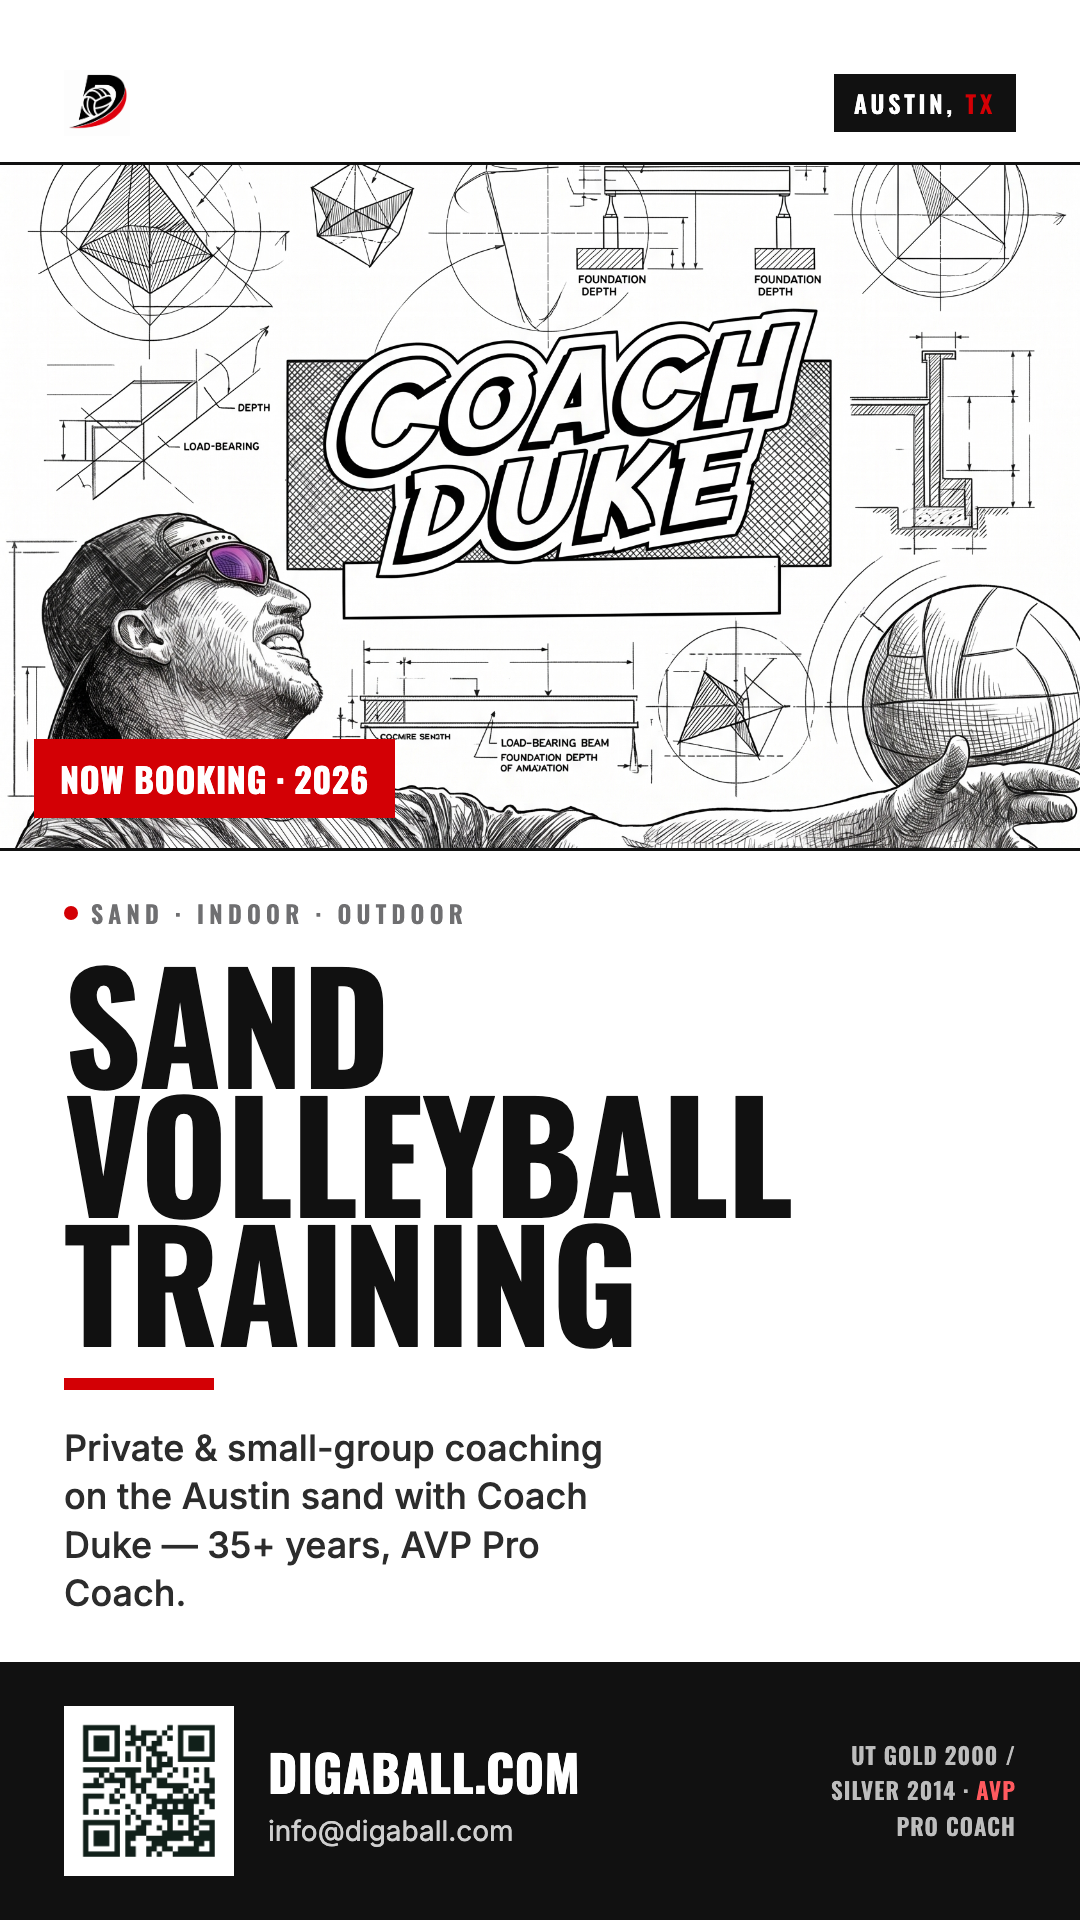
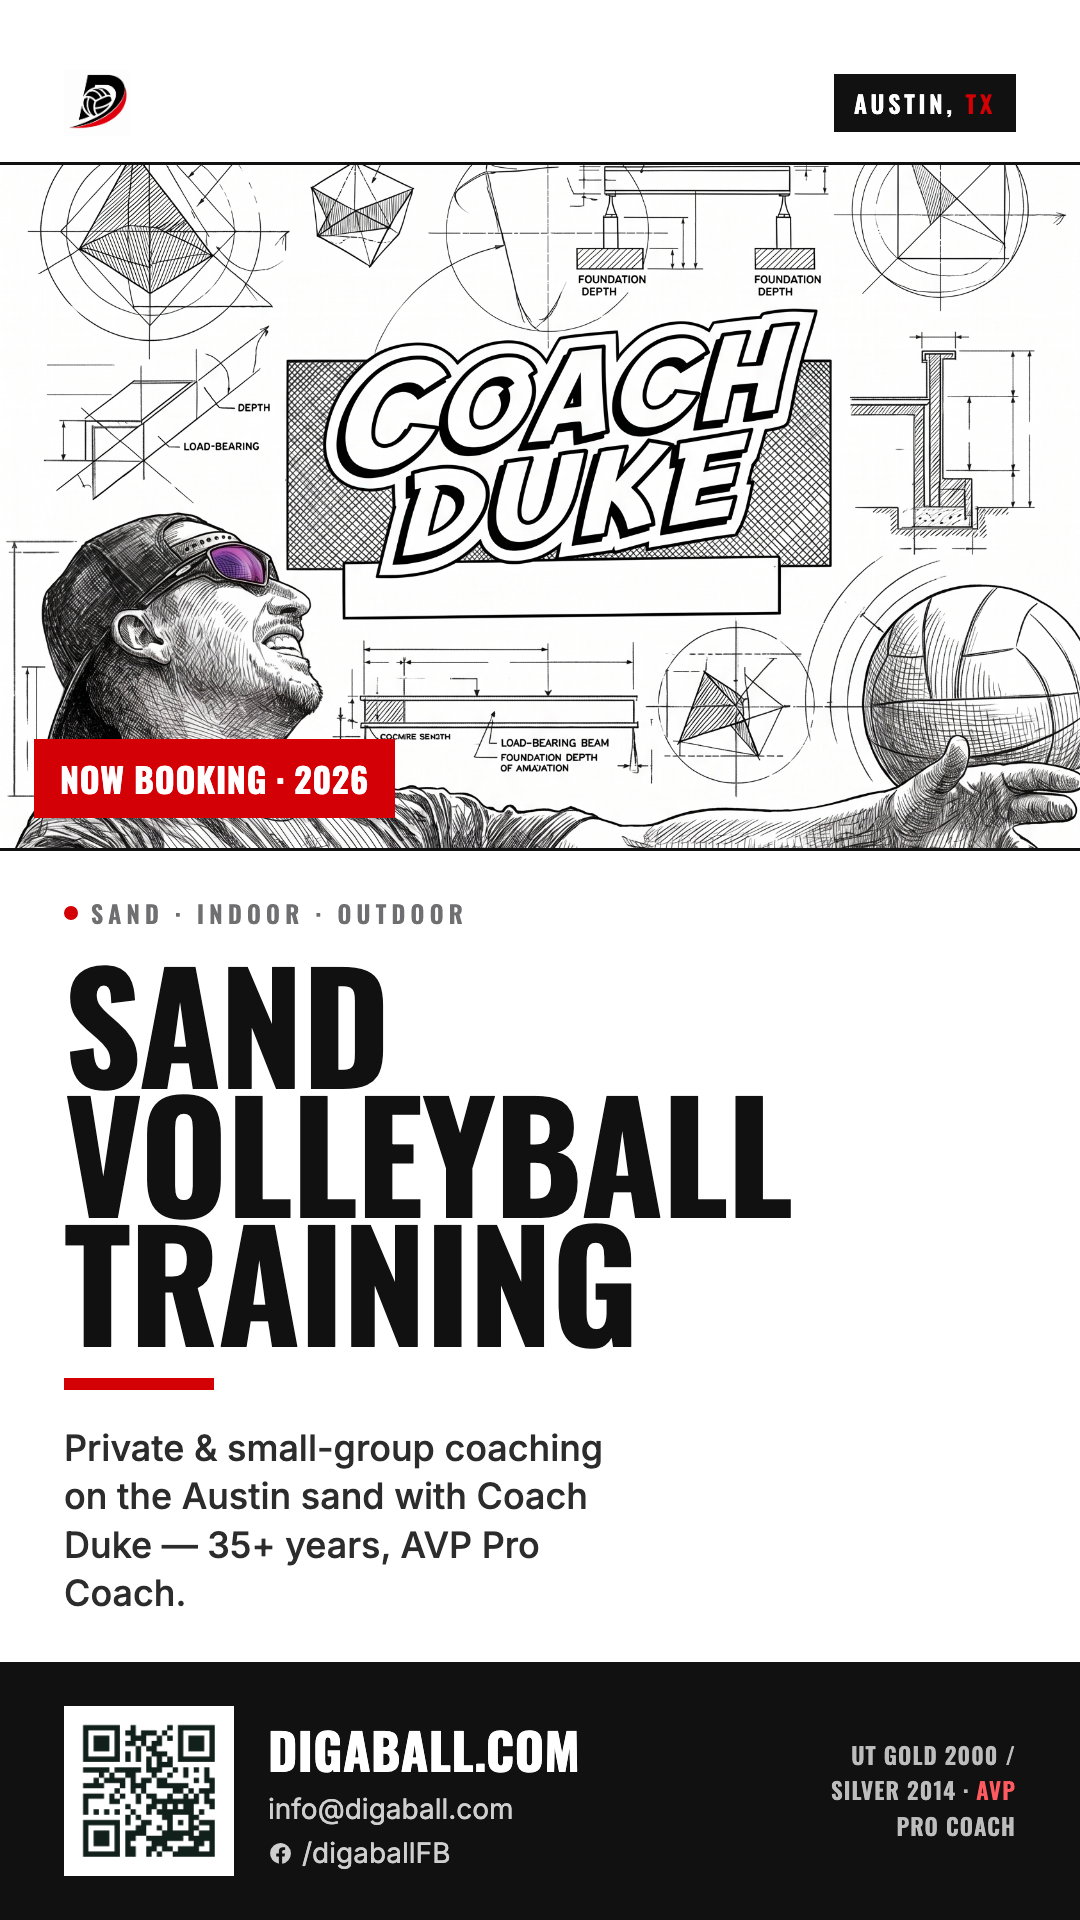
Digaball: add Facebook (/digaballFB) to V4 footer + flyer
- V4 site: "Follow on Facebook" link in the footer.
- Flyer (square + story): Facebook icon + /digaballFB handle in the contact
  block; re-rendered the 1080x1080 and 1080x1920 PNG exports.

Changed region(s): [[0.2444, 0.875, 0.55, 0.9688]]

diff --git a/digaball_v4/index.html b/digaball_v4/index.html
@@ -427,6 +427,9 @@ a{color:inherit;text-decoration:none;}
 .footer__brandrow{display:flex;align-items:center;gap:.8rem;}
 .footer__mark{width:52px;height:52px;flex:none;border-radius:12px;background:var(--white);padding:6px;object-fit:contain;}
 .footer__meta{color:var(--grey-500);font-size:.85rem;letter-spacing:.02em;}
+.footer__social{margin-top:.7rem;}
+.footer__social a{font-family:var(--font-body);font-weight:600;font-size:.85rem;color:var(--grey-300);text-decoration:none;transition:color .2s ease;}
+.footer__social a:hover{color:var(--white);}
 .footer__links{display:flex;flex-wrap:wrap;gap:1.25rem;list-style:none;margin:0;padding:0;}
 .footer__links a{font-weight:500;font-size:.85rem;color:var(--grey-300);transition:color .2s ease;}
 .footer__links a:hover{color:var(--white);}
@@ -847,6 +850,7 @@ a{color:inherit;text-decoration:none;}
         <p class="footer__brand">Digaball</p>
       </div>
       <p class="footer__meta">© <span id="year">2026</span> Digaball · Indoor &amp; outdoor volleyball · Austin, TX</p>
+      <p class="footer__social"><a href="https://www.facebook.com/digaballFB" target="_blank" rel="noopener">Follow on Facebook &rarr;</a></p>
     </div>
     <ul class="footer__links">
       <li><a href="#training">Training</a></li>

diff --git a/digaball_flyer/square.html b/digaball_flyer/square.html
@@ -41,6 +41,8 @@
   .info{display:flex;flex-direction:column;gap:3px;}
   .info .big{font-family:Oswald,sans-serif;text-transform:uppercase;font-weight:700;font-size:33px;letter-spacing:.01em;}
   .info .sm{font-size:19px;color:#cfcfcf;}
+  .info .fb{display:flex;align-items:center;gap:7px;margin-top:3px;}
+  .info .fb svg{display:block;}
   .creds{margin-left:auto;text-align:right;font-family:Oswald,sans-serif;text-transform:uppercase;
          font-weight:600;font-size:16px;letter-spacing:.05em;color:#bdbdbd;line-height:1.55;max-width:22ch;}
   .creds .r{color:#ff5a5f;}
@@ -69,6 +71,7 @@
       <span class="big">digaball.com</span>
       <!-- TODO: confirm real training-inquiry email with Coach Duke -->
       <span class="sm">info@digaball.com</span>
+      <span class="sm fb"><svg viewBox="0 0 24 24" width="17" height="17" fill="currentColor" aria-hidden="true"><path d="M22 12a10 10 0 10-11.56 9.88v-6.99H7.9V12h2.54V9.8c0-2.5 1.49-3.89 3.77-3.89 1.09 0 2.24.2 2.24.2v2.46h-1.26c-1.24 0-1.63.77-1.63 1.56V12h2.78l-.44 2.89h-2.34v6.99A10 10 0 0022 12z"/></svg>/digaballFB</span>
     </div>
     <div class="creds">35+ Years · UT Gold 2000 / Silver 2014 · <span class="r">AVP</span> Pro Coach</div>
   </div>

diff --git a/digaball_flyer/story.html b/digaball_flyer/story.html
@@ -40,6 +40,8 @@
   .info{display:flex;flex-direction:column;gap:6px;}
   .info .big{font-family:Oswald,sans-serif;text-transform:uppercase;font-weight:700;font-size:50px;letter-spacing:.01em;}
   .info .sm{font-size:28px;color:#cfcfcf;}
+  .info .fb{display:flex;align-items:center;gap:9px;margin-top:4px;}
+  .info .fb svg{display:block;}
   .creds{margin-left:auto;text-align:right;font-family:Oswald,sans-serif;text-transform:uppercase;
          font-weight:600;font-size:23px;letter-spacing:.05em;color:#bdbdbd;line-height:1.55;max-width:16ch;}
   .creds .r{color:#ff5a5f;}
@@ -68,6 +70,7 @@
       <span class="big">digaball.com</span>
       <!-- TODO: confirm real training-inquiry email with Coach Duke -->
       <span class="sm">info@digaball.com</span>
+      <span class="sm fb"><svg viewBox="0 0 24 24" width="25" height="25" fill="currentColor" aria-hidden="true"><path d="M22 12a10 10 0 10-11.56 9.88v-6.99H7.9V12h2.54V9.8c0-2.5 1.49-3.89 3.77-3.89 1.09 0 2.24.2 2.24.2v2.46h-1.26c-1.24 0-1.63.77-1.63 1.56V12h2.78l-.44 2.89h-2.34v6.99A10 10 0 0022 12z"/></svg>/digaballFB</span>
     </div>
     <div class="creds">UT Gold 2000 / Silver 2014 · <span class="r">AVP</span> Pro Coach</div>
   </div>
